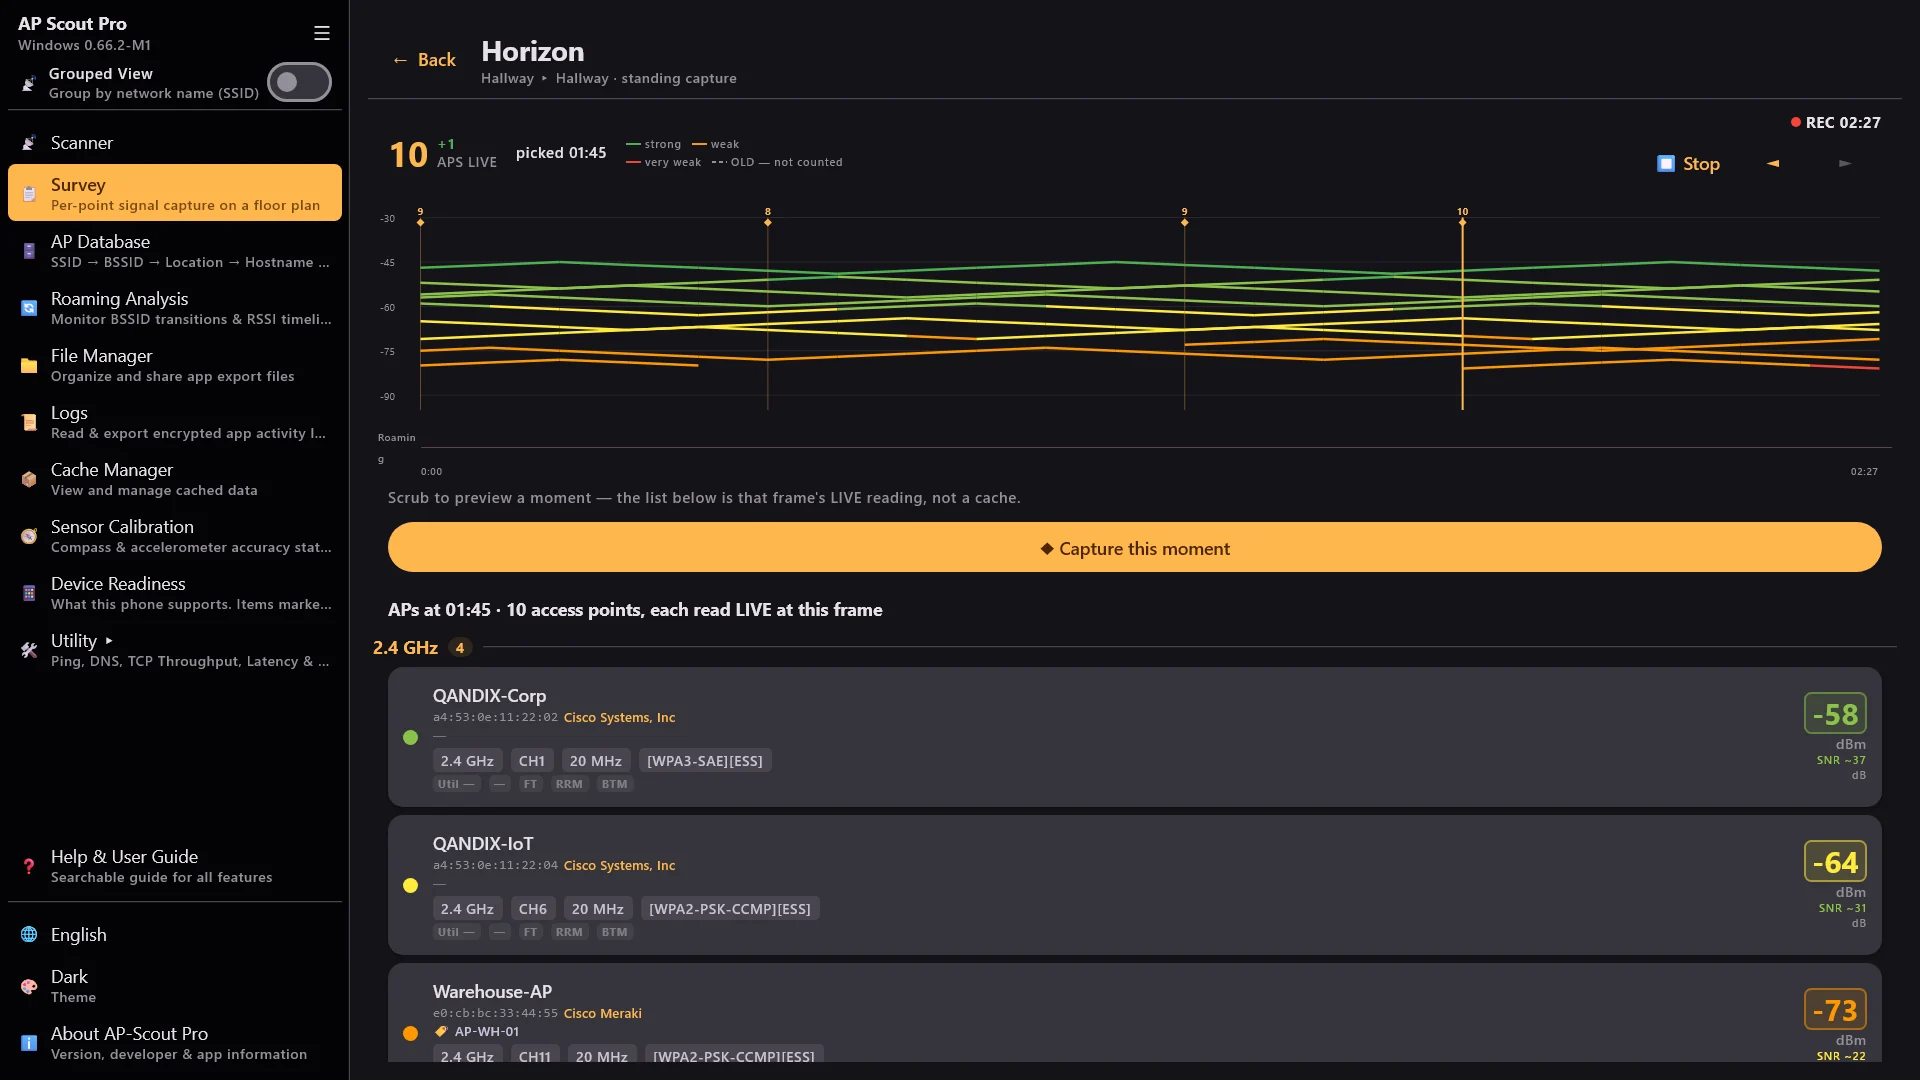
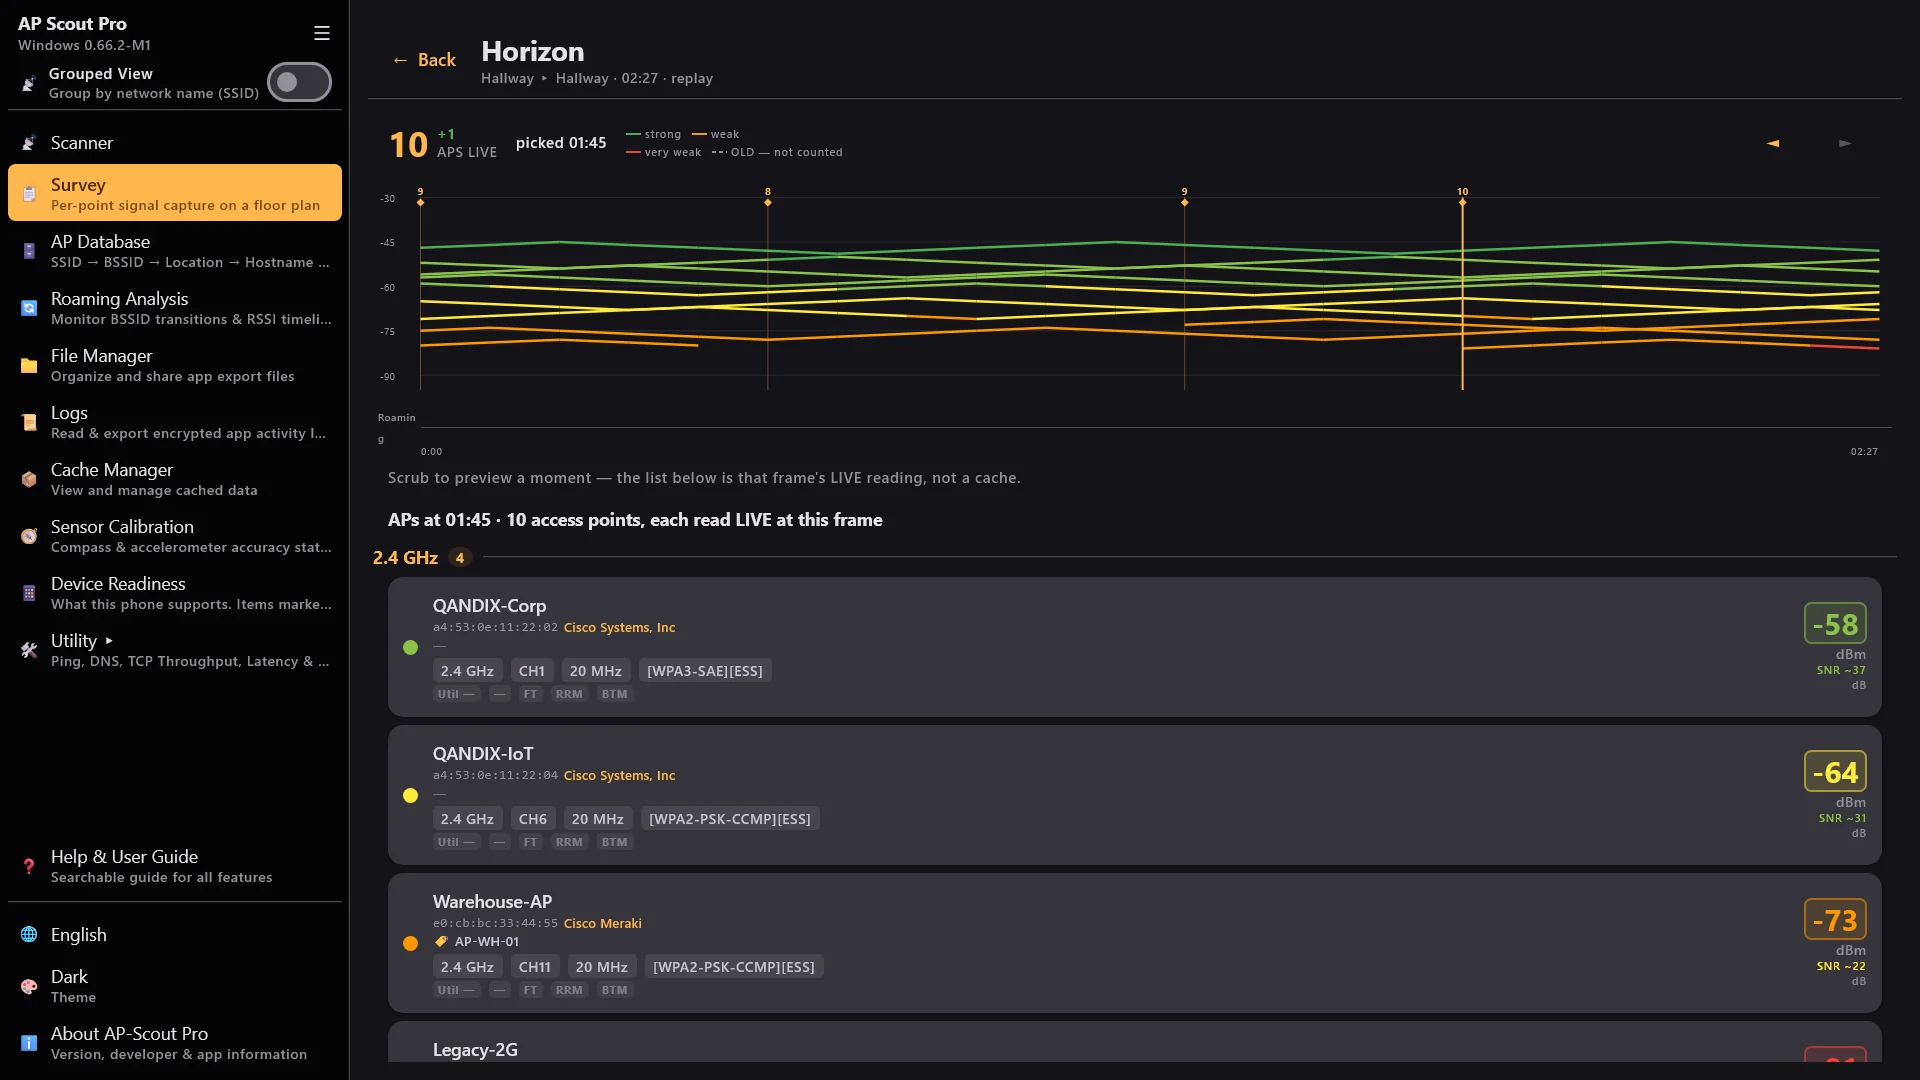
S-10: swap to the replay shot (Play UI visible) - caption updated

diff --git a/index.html b/index.html
@@ -292,7 +292,7 @@
     <a href="assets/gallery_roaming.webp" target="_blank" rel="noopener"><figure><div class="thumb"><img src="assets/thumbs/gallery_roaming.webp" alt="Roaming analysis — BSSID transitions on an RSSI timeline" loading="lazy" decoding="async" width="960" height="540"></div><figcaption><span class="idx">S-07</span><span>Roaming — BSSID transitions on the RSSI timeline ↗</span></figcaption></figure></a>
     <a href="assets/gallery_apdb.webp" target="_blank" rel="noopener"><figure><div class="thumb"><img src="assets/thumbs/gallery_apdb.webp" alt="Encrypted AP Database — AP names instead of raw BSSIDs" loading="lazy" decoding="async" width="960" height="540"></div><figcaption><span class="idx">S-08</span><span>Encrypted AP Database — names instead of BSSIDs ↗</span></figcaption></figure></a>
     <a href="assets/gallery_survey_capture.webp" target="_blank" rel="noopener"><figure><div class="thumb"><img src="assets/thumbs/gallery_survey_capture.webp" alt="Live Site Survey capture with point list and progress" loading="lazy" decoding="async" width="960" height="540"></div><figcaption><span class="idx">S-09</span><span>Live survey capture — point-by-point, honest progress ↗</span></figcaption></figure></a>
-    <a href="assets/gallery_survey_continuous.webp" target="_blank" rel="noopener"><figure><div class="thumb"><img src="assets/thumbs/gallery_survey_continuous.webp" alt="Continuous capture at a survey check point — recording timeline with moment picker" loading="lazy" decoding="async" width="960" height="540"></div><figcaption><span class="idx">S-10</span><span>Continuous capture — record at a check point, pick the exact moment ↗</span></figcaption></figure></a>
+    <a href="assets/gallery_survey_continuous.webp" target="_blank" rel="noopener"><figure><div class="thumb"><img src="assets/thumbs/gallery_survey_continuous.webp" alt="Continuous capture replay at a survey check point — play the recording and pick the exact moment" loading="lazy" decoding="async" width="960" height="540"></div><figcaption><span class="idx">S-10</span><span>Continuous capture — replay the recording, pick the exact moment ↗</span></figcaption></figure></a>
     <a href="assets/desktop_survey.webp" target="_blank" rel="noopener"><figure><div class="thumb"><img src="assets/thumbs/desktop_survey.webp" alt="Site Survey viewer — captured check points and AP anchors on a floor plan" loading="lazy" decoding="async" width="960" height="540"></div><figcaption><span class="idx">S-11</span><span>Site Survey — check points &amp; AP anchors on your floor plan ↗</span></figcaption></figure></a>
     <a href="assets/gallery_light.webp" target="_blank" rel="noopener"><figure><div class="thumb"><img src="assets/thumbs/gallery_light.webp" alt="Wi-Fi scanner in the light theme" loading="lazy" decoding="async" width="960" height="540"></div><figcaption><span class="idx">S-12</span><span>Light theme — full parity ↗</span></figcaption></figure></a>
   </div>
